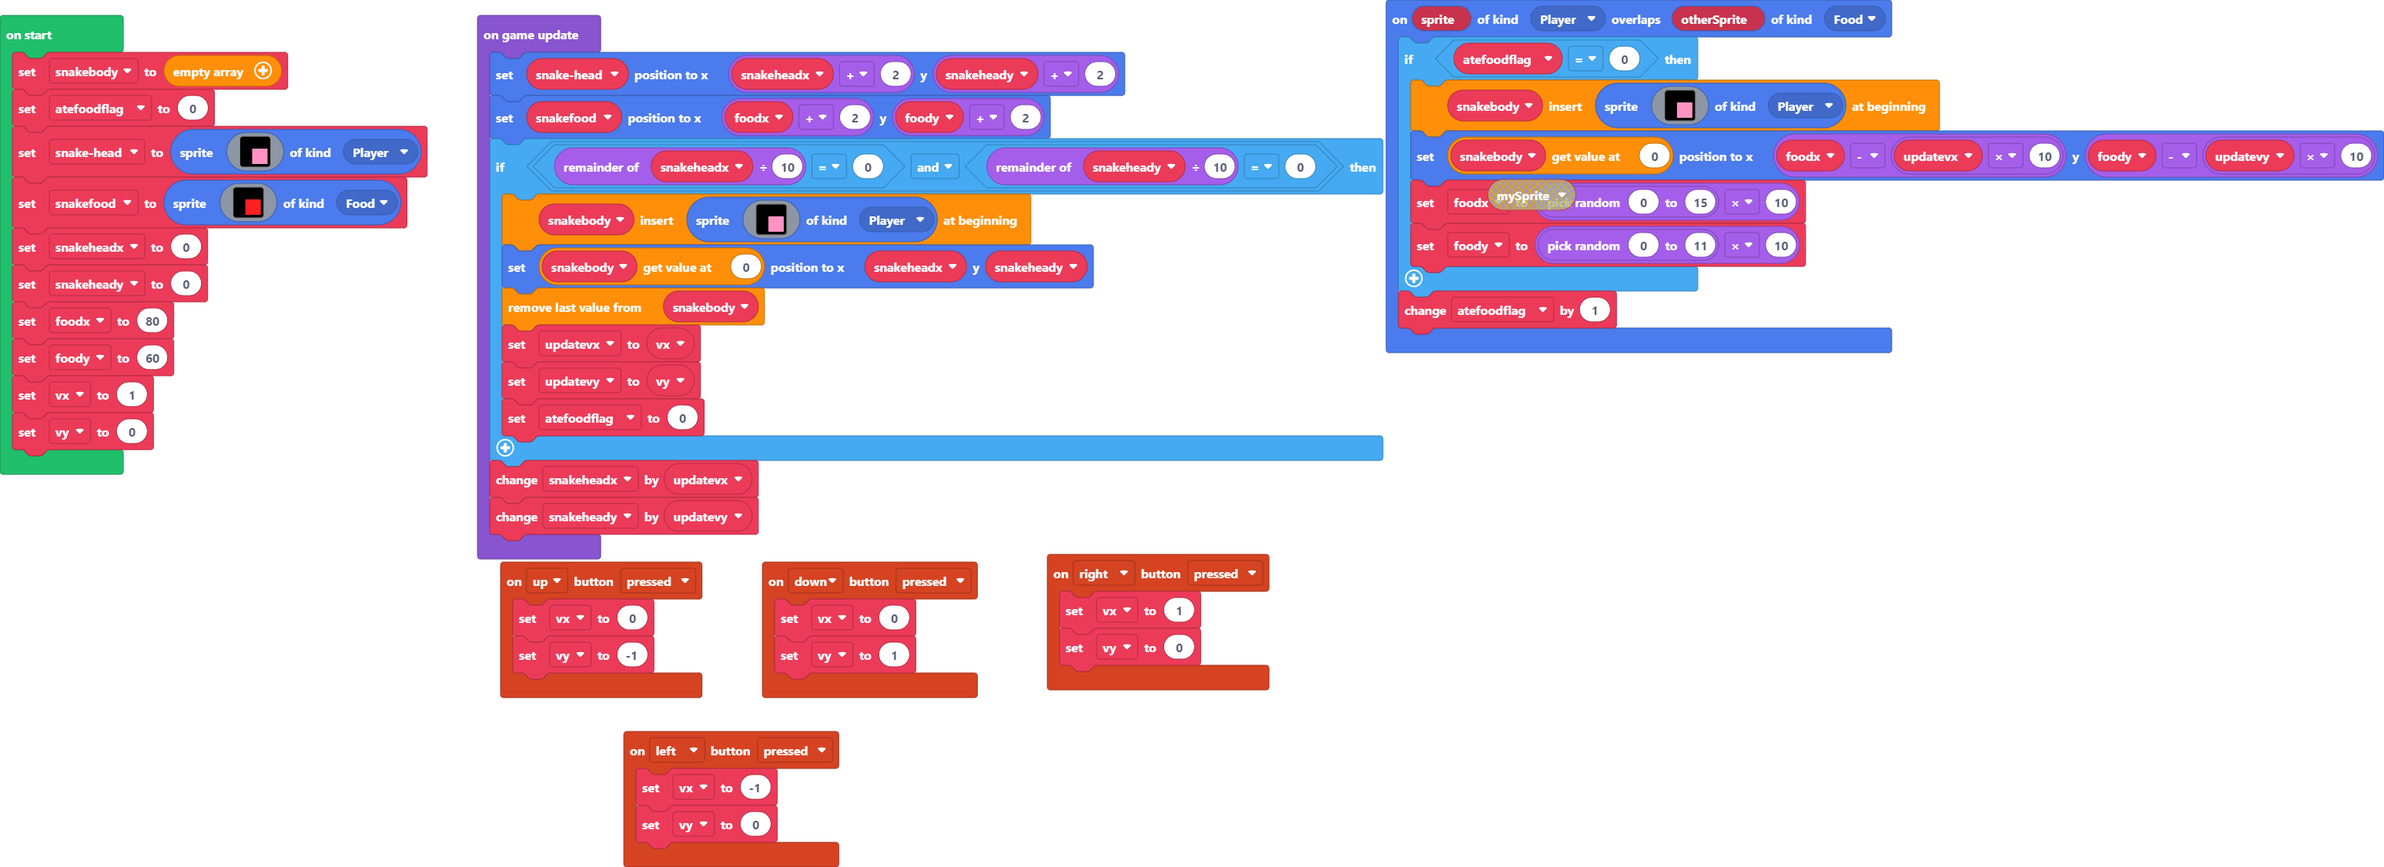
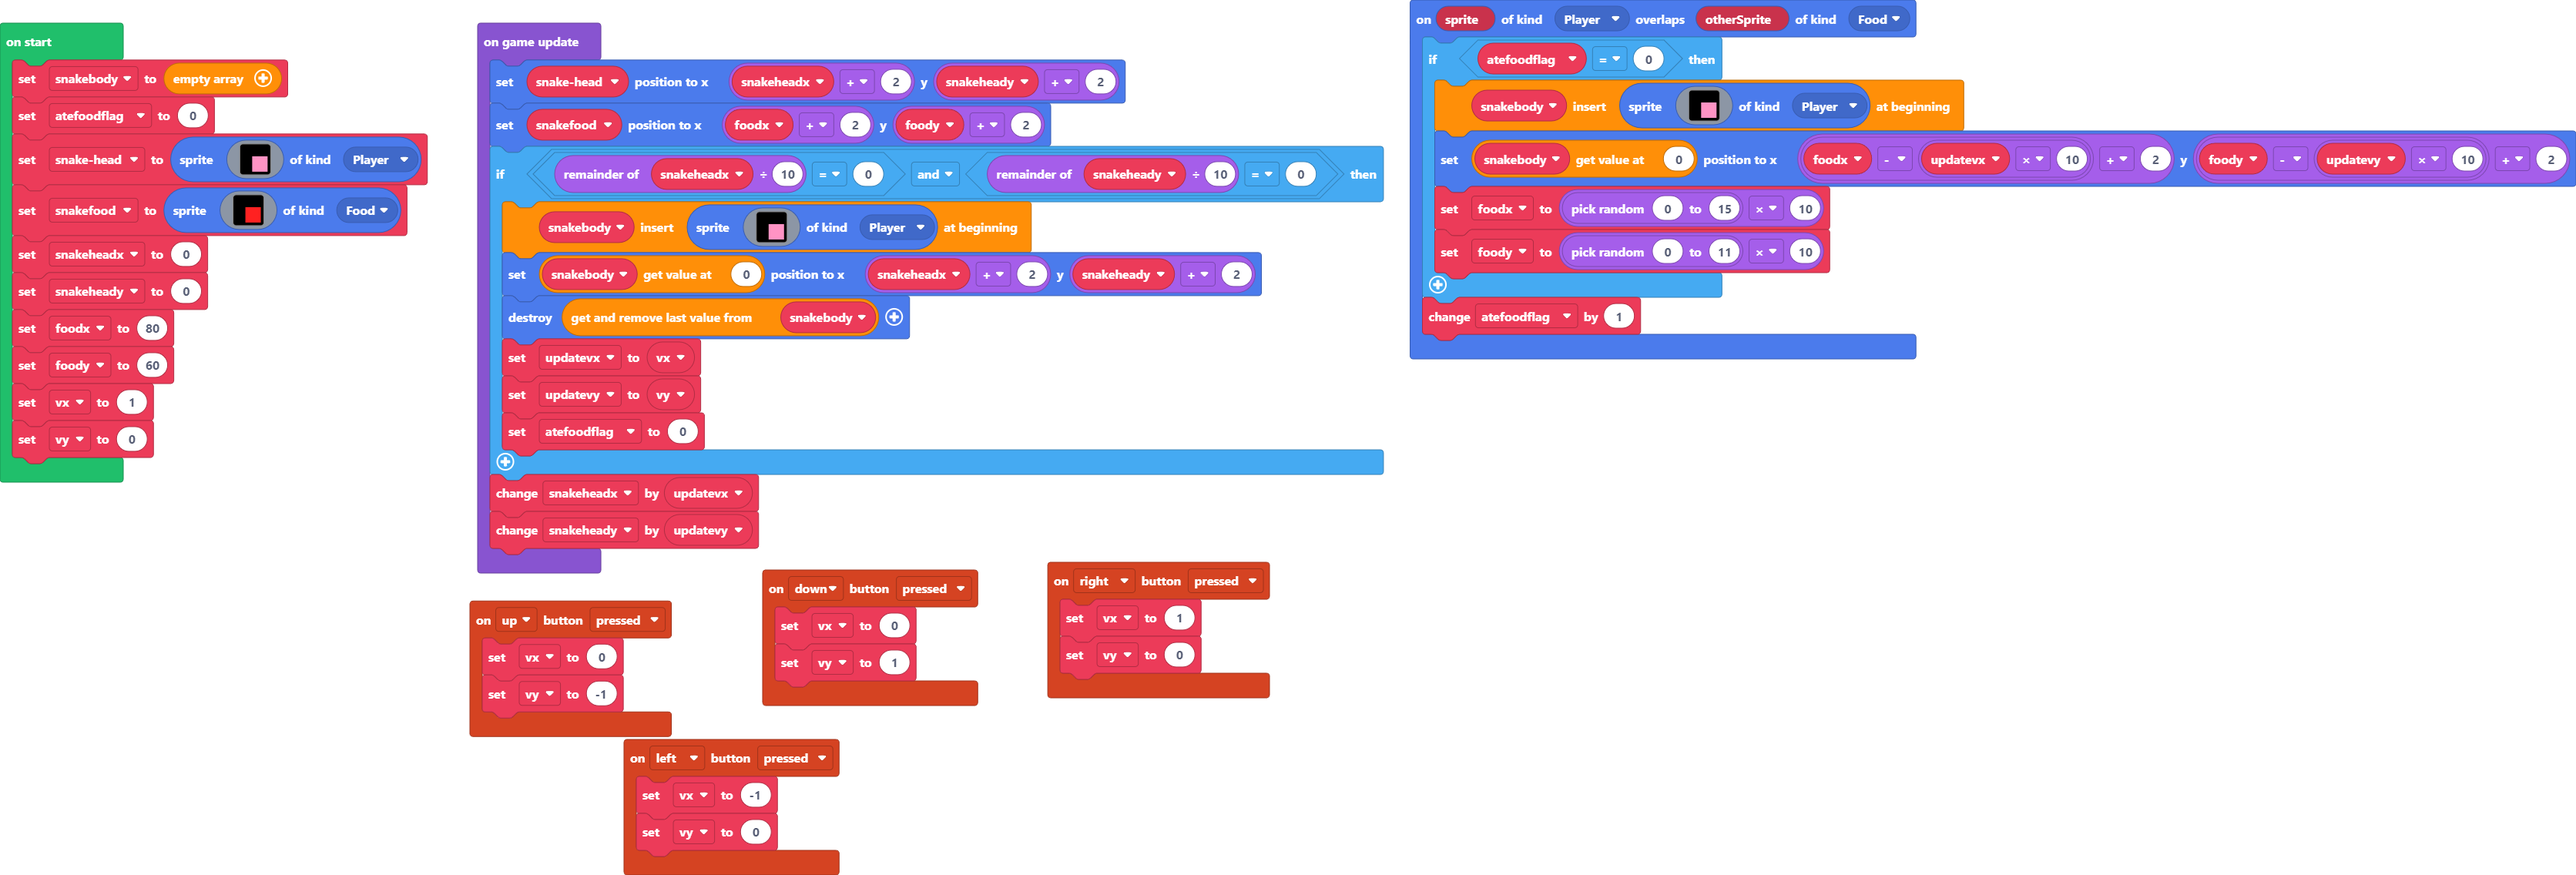
fixed snake body

Changed region(s): [[0.0, 0.0, 1.0, 1.0]]

diff --git a/main.ts b/main.ts
@@ -34,7 +34,7 @@ sprites.onOverlap(SpriteKind.Player, SpriteKind.Food, function (sprite, otherSpr
             . . . . . . 3 3 3 3 3 3 3 3 3 3 
             . . . . . . 3 3 3 3 3 3 3 3 3 3 
             `, SpriteKind.Player))
-        snakebody[0].setPosition(foodx - updatevx * 10, foody - updatevy * 10)
+        snakebody[0].setPosition(foodx - updatevx * 10 + 2, foody - updatevy * 10 + 2)
         foodx = randint(0, 15) * 10
         foody = randint(0, 11) * 10
     }
@@ -114,8 +114,8 @@ game.onUpdate(function () {
             . . . . . . 3 3 3 3 3 3 3 3 3 3 
             . . . . . . 3 3 3 3 3 3 3 3 3 3 
             `, SpriteKind.Player))
-        snakebody[0].setPosition(snakeheadx, snakeheady)
-        snakebody.pop()
+        snakebody[0].setPosition(snakeheadx + 2, snakeheady + 2)
+        snakebody.pop().destroy()
         updatevx = vx
         updatevy = vy
         atefoodflag = 0
